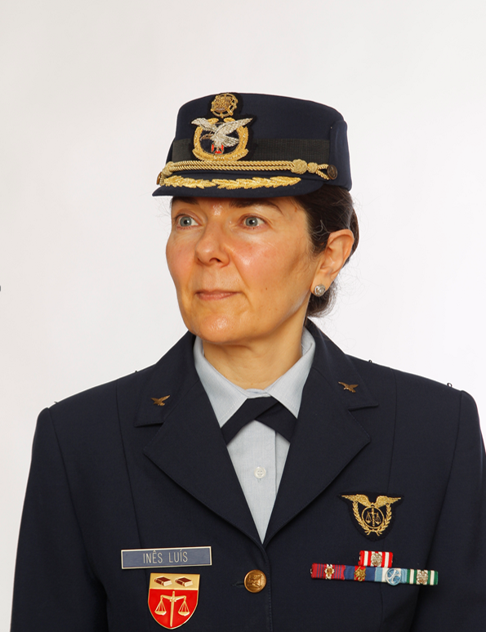
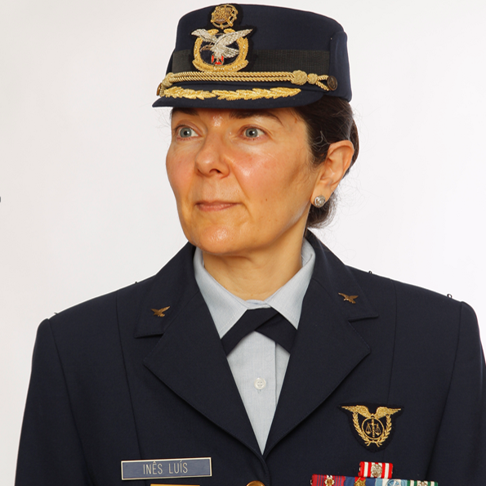
Alterar imagens para quadradas

diff --git a/eventos/seminario-assessoria-juridica-no-exercito-2025/index.html b/eventos/seminario-assessoria-juridica-no-exercito-2025/index.html
@@ -177,7 +177,7 @@
               href="index.html#testimonials4-41">MODERADORES</a></li>
           <!-- <li class="nav-item"><a class="nav-link link text-secondary display-4"
             href="index.html#content4-R">CONCLUSÕES</a></li> -->
-        <li class="nav-item">
+          <li class="nav-item">
             <a class="nav-link link text-secondary display-4" href="index.html#contacts3-2z">
               CONTACTOS</a>
           </li>
@@ -204,7 +204,8 @@
       <div class="media-container-row">
         <div class="title col-12 col-md-8">
           <h2 class="align-center pb-3 mbr-fonts-style display-2" style="color:  #167e50">APRESENTAÇÃO</h2>
-          <h3 class="mbr-section-subtitle align-center mbr-light mbr-fonts-style display-5">A Assessoria Jurídica no Exército Português- Relevância e Desafios</h3>
+          <h3 class="mbr-section-subtitle align-center mbr-light mbr-fonts-style display-5">A Assessoria Jurídica no
+            Exército Português- Relevância e Desafios</h3>
           <br>
         </div>
       </div>
@@ -214,22 +215,26 @@
       <div class="media-container-row">
         <div class="mbr-text col-12 mbr-fonts-style display-4 col-md-8">
           <p>O Comando do Pessoal do Exército organiza, no dia 11 de março de 2025, no Quartel de Santo Ovídio, Porto, o
-          Seminário “A Assessoria Jurídica no Exército Português: Relevância e Desafios”. Este evento constitui uma
-          oportunidade única para o debate sobre os desafios e oportunidades do Direito Militar, reunindo especialistas
-          nacionais e internacionais num espaço de excelência para a troca de experiências e a construção de soluções
+            Seminário “A Assessoria Jurídica no Exército Português: Relevância e Desafios”. Este evento constitui uma
+            oportunidade única para o debate sobre os desafios e oportunidades do Direito Militar, reunindo
+            especialistas
+            nacionais e internacionais num espaço de excelência para a troca de experiências e a construção de soluções
           </p>
-          <p>Com a participação de representantes de outros países, como Espanha e Inglaterra, bem como de outros ramos das
-          Forças Armadas, este Seminário permitirá a identificação e partilha de boas práticas com potencial para serem
-          adaptadas à realidade do Exército Português. O evento destina-se a militares e civis que atuam diretamente no
-          âmbito da assessoria jurídica, promovendo um fórum de discussão de elevado nível técnico e institucional.
+          <p>Com a participação de representantes de outros países, como Espanha e Inglaterra, bem como de outros ramos
+            das
+            Forças Armadas, este Seminário permitirá a identificação e partilha de boas práticas com potencial para
+            serem
+            adaptadas à realidade do Exército Português. O evento destina-se a militares e civis que atuam diretamente
+            no
+            âmbito da assessoria jurídica, promovendo um fórum de discussão de elevado nível técnico e institucional.
           </p>
           <p>Num contexto operacional cada vez mais exigente, destaca-se a crescente relevância do Legal Advisor em
-          Operações Militares, papel essencial para a condução eficaz e legalmente sustentada das missões. Neste
-          sentido, o Seminário visa contribuir para o fortalecimento da assessoria jurídica no Exército, potenciando
-          sinergias e promovendo uma visão integrada dos desafios que se colocam à assessoria jurídica em ambiente
-          militar.
+            Operações Militares, papel essencial para a condução eficaz e legalmente sustentada das missões. Neste
+            sentido, o Seminário visa contribuir para o fortalecimento da assessoria jurídica no Exército, potenciando
+            sinergias e promovendo uma visão integrada dos desafios que se colocam à assessoria jurídica em ambiente
+            militar.
           </p>
-         <br>
+          <br>
         </div>
       </div>
     </div>
@@ -278,11 +283,11 @@
                 <p class="my-0 flex-fw text-xs text-dark op-8 fundo-e-sombra-verde">Moderado pelo Coronel Tirocinado
                   António Coelho dos Santos, Subdiretor da Direção de Aquisições</p>
                 <p class="my-0 flex-fw text-xs text-dark op-8 fundo-e-sombra-verde"><strong>10:10</strong> Perspetiva
-                  Espanhola (TBA) : Comandante Auditor CJM D. Daniel Rey Moral, Ejercito de Tierra </p>
+                  Espanhola (TBA) - Comandante Auditor CJM D. Daniel Rey Moral, Ejercito de Tierra </p>
                 <p class="my-0 flex-fw text-xs text-dark op-8 fundo-e-sombra-verde"><strong>10:30</strong> Perspetiva
-                  Inglesa (TBA) : Major-General Richard Allen, Director of British Army Legal Services </p>
+                  Inglesa (TBA) - Major-General Richard Allen, Director of British Army Legal Services </p>
                 <p class="my-0 flex-fw text-xs text-dark op-8 fundo-e-sombra-verde"><strong>10:45</strong> Perspetiva
-                  Inglesa (TBA) : Major-General Richard Allen, Director of British Army Legal Services </p>
+                  Inglesa (TBA) - Major-General Richard Allen, Director of British Army Legal Services </p>
               </li>
               <li class="list-timeline-item p-0 pb-3 pb-lg-4 d-flex flex-wrap flex-column">
                 <p class="my-0 text-dark flex-fw text-sm">
@@ -299,10 +304,10 @@
                 <p class="my-0 flex-fw text-xs text-dark op-8 fundo-e-sombra-verde"><strong>11:30</strong> A Assessoria
                   Jurídica no Exército - Dr.ª Carla Sousa, do Departamento Jurídico e de Contencioso do GabCEME </p>
                 <p class="my-0 flex-fw text-xs text-dark op-8 fundo-e-sombra-verde"><strong>11:50</strong> O modelo de
-                  Assessoria Jurídica na Marinha : Capitão de Mar e Guerra Luís Nicholson Lavrador, Departamento
+                  Assessoria Jurídica na Marinha - Capitão de Mar e Guerra Luís Nicholson Lavrador, Departamento
                   Jurídico da Marinha. </p>
                 <p class="my-0 flex-fw text-xs text-dark op-8 fundo-e-sombra-verde"><strong>12:10</strong> – O modelo de
-                  Assessoria Jurídica na Força Aérea Portuguesa : Tenente-Coronel Jurista, Inês Sousa Luís, Departamento
+                  Assessoria Jurídica na Força Aérea Portuguesa - Tenente-Coronel Jurista, Inês Sousa Luís, Departamento
                   Jurídico da Força Aérea </p>
                 <p class="my-0 flex-fw text-xs text-dark op-8 fundo-e-sombra-verde"><strong>12:30</strong> – Período de
                   Debate </p>
@@ -324,12 +329,12 @@
                   Divisão de Recursos do Estado-Maior do Exército.</em></p>
                 <p class="my-0 flex-fw text-xs text-dark op-8 fundo-e-sombra-verde"><strong>14:30</strong>A estrutura de
                   pessoal jurista do Exército: Evolução e Oportunidades – Dr.º Gabriel Barbosa Campos, Chefe da
-                  Assessoria Jurídica do Gabinete do Comandante de Pessoa</em></p>
+                  Assessoria Jurídica do Gabinete do Comandante de Pessoa.</em></p>
                 <p class="my-0 flex-fw text-xs text-dark op-8 fundo-e-sombra-verde"><strong>14:35</strong> A Formação do
                   Quadro Especial de Juristas – Coronel Élio Teixeira dos Santos, Diretor de Ensino da Academia
-                  Militar</em></p>
+                  Militar.</em></p>
                 <p class="my-0 flex-fw text-xs text-dark op-8 fundo-e-sombra-verde"><strong>15:10</strong> As funções do
-                  Jurista – Dr.ª Sílvia Filipe Nogueira Corais, Jurista da Direção de Serviços de Pessoa</em></p>
+                  Jurista – Dr.ª Sílvia Filipe Nogueira Corais - Jurista da Direção de Serviços de Pessoa</em></p>
                 <p class="my-0 flex-fw text-xs text-dark op-8 fundo-e-sombra-verde"><strong>15:30</strong> Período de
                   Debate</em></p>
               </li>
@@ -372,18 +377,20 @@
         </div>
       </div> 
 -->
-
-<div class="row align-center mt-5">
-  <div class="col-12" align-center>
+      <br>
+  <div style="text-align: center;">
     <a href="https://qr.sli.do/jAnPRt2T7m271N7kHwvNsY" target="_blank">
       <img src="assets/images/02a-logo-exercito-cor2-png-174x121.png" width="150">
       <br>
-      <a class="btn btn-md btn-primary" target="_blank" href="https://app.sli.do/event/jAnPRt2T7m271N7kHwvNsY" role="button">Interação com Moderadores</a>
-  </a>
+      <a class="btn btn-md btn-primary" target="_blank" href="https://app.sli.do/event/jAnPRt2T7m271N7kHwvNsY"
+        role="button" style="font-family: Arial, sans-serif;">
+        Interação com Moderadores
+      </a>
   </div>
-</div>
+
   </div>
   </div>
+  <br>
 
 
 
@@ -439,7 +446,7 @@
             <div class="testimonials-caption col-lg-9 col-md-8">
               <div class="user_text">
                 <p class="mbr-fonts-style display-7">
-                  <br><strong>Comandante Auditor CJM D. Daniel Rey Moral,</strong>
+                  <br><strong>Comandante Auditor CJM D. Daniel Rey Moral</strong>
                   <br>Ejercito de Tierra
                   <br><br>
                   O Comandante Daniel Rey Moral ingressou no Corpo Jurídico Militar em 2010, consolidando uma carreira
@@ -478,7 +485,7 @@
             <div class="testimonials-caption col-lg-9 col-md-8">
               <div class="user_text">
                 <p class="mbr-fonts-style display-7">
-                  <br><strong>Major-General Richard Allen,</strong>
+                  <br><strong>Major-General Richard Allen</strong>
                   <br>Director of British Army Legal Services
                   <br><br>
                   O Major-General Richard Allen estudou Direito na Universidade de Birmingham e concluiu os exames
@@ -555,7 +562,7 @@
             </div>
             <div class="testimonials-caption col-lg-9 col-md-8">
               <div class="user_text">
-                <p class="mbr-fonts-style display-7"><br><strong>Capitão de Mar e Guerra Luís Nicholson Lavrador,
+                <p class="mbr-fonts-style display-7"><br><strong>Capitão de Mar e Guerra Luís Nicholson Lavrador
                   </strong>
                   <br>Departamento Jurídico da Marinha
                   <br><br>O Capitão de Mar e Guerra Luis Nicholson Lavrador nasceu em Lisboa em 1968 e ingressou na
@@ -641,7 +648,7 @@
             <div class="testimonials-caption col-lg-9 col-md-8">
               <div class="user_text">
                 <p class="mbr-fonts-style display-7">
-                  <br><strong>Coronel Tirocinado Jorge Paulo Martins Henriques, </strong>
+                  <br><strong>Coronel Tirocinado Jorge Paulo Martins Henriques </strong>
                   <br>Chefe da Divisão de Recursos do Estado-Maior do Exército.
                   <br><br>
                   O Coronel Tirocinado Jorge Paulo Martins Henriques nasceu em Lisboa, tem 55 anos de idade e ingressou
@@ -710,7 +717,7 @@
             <div class="testimonials-caption col-lg-9 col-md-8">
               <div class="user_text">
                 <p class="mbr-fonts-style display-7">
-                  <br><strong>Coronel Élio Teixeira dos Santos, </strong>
+                  <br><strong>Coronel Élio Teixeira dos Santos </strong>
                   <br>Diretor de Ensino da Academia Militar.
                   <br><br>O Coronel Élio Santos terminou a Academia Militar em 1992, tendo sido colocado no Centro de
                   Instrução de Artilharia Antiaérea de Cascais, onde desempenhou as funções de Comandante de Pelotão e
@@ -905,77 +912,79 @@
   </section>
 
   <section class="mbr-section contacts3 cid-sPcMrNzpg3" id="contacts3-2z">
-    <!---->
-    <!---->
-    <!--Overlay-->
-    <!--Container-->
     <div class="container">
       <div class="row">
-        <!--Titles-->
+        <!--Título principal-->
         <div class="title col-12">
           <h2 class="align-left mbr-fonts-style display-2">Contactos</h2>
         </div>
-        <div class="col-12">
-          <div class="row">
-            <div class="col-12 col-md-6">
-              <div class="wrapper">
-                <span class="iconfont-wrapper">
-                  <span class="amp-iconfont icon fa-thumbs-o-up fa mbrib-home"
-                    style="color: rgb(22, 126, 80); fill: rgb(22, 126, 80);"></span>
-                </span>
-                <div class="b-info b-adress">
-                  <h5 class="align-left mbr-fonts-style display-5">Morada:
-                  </h5>
-                  <p class="mbr-text align-left mbr-fonts-style display-7">
-                    Quartel de Santo Ovídio
-                    <br>
-                    Praça da República
-                    <br>
-                    4099-037 Porto
-                  </p>
+  
+        <!-- Duas colunas -->
+        <div class="col-12 d-flex flex-wrap">
+          <!-- Coluna esquerda (Contactos) -->
+          <div class="col-12 col-md-6">
+            <div class="row">
+              <div class="col-12">
+                <div class="wrapper">
+                  <span class="iconfont-wrapper">
+                    <span class="amp-iconfont icon fa-thumbs-o-up fa mbrib-home"
+                      style="color: rgb(22, 126, 80); fill: rgb(22, 126, 80);"></span>
+                  </span>
+                  <div class="b-info b-adress">
+                    <h5 class="align-left mbr-fonts-style display-5">📍 Morada:</h5>
+                    <p class="mbr-text align-left mbr-fonts-style display-7">
+                      Quartel de Santo Ovídio
+                      <br>Praça da República
+                      <br>4099-037 Porto
+                    </p>
+                  </div>
+                </div>
+              </div>
+              <div class="col-12">
+                <div class="wrapper">
+                  <span class="iconfont-wrapper">
+                    <span class="amp-iconfont icon fa-phone fa mbrib-mobile2"
+                      style="color: rgb(22, 126, 80); fill: rgb(22, 126, 80);"></span>
+                  </span>
+                  <div class="b-info b-phone">
+                    <h5 class="align-left mbr-fonts-style display-5">📞 Telefone:</h5>
+                    <p class="mbr-text align-left mbr-fonts-style display-7">
+                      222 077 302<br>431 014
+                    </p>
+                  </div>
+                </div>
+              </div>
+              <div class="col-12">
+                <div class="wrapper">
+                  <span class="iconfont-wrapper">
+                    <span class="amp-iconfont icon fa-comment-o fa mbrib-letter"
+                      style="color: rgb(22, 126, 80); fill: rgb(22, 126, 80);"></span>
+                  </span>
+                  <div class="b-info b-mail">
+                    <h5 class="align-left mbr-fonts-style display-5">✉  E-mail:</h5>
+                    <p class="mbr-text align-left mbr-fonts-style display-7">
+                      cmdpess.gabinete@exercito.pt
+                    </p>
+                  </div>
                 </div>
               </div>
             </div>
-            <div class="col-12 col-md-6">
-              <div class="wrapper">
-                <span class="iconfont-wrapper">
-                  <span class="amp-iconfont icon fa-phone fa mbrib-mobile2"
-                    style="color: rgb(22, 126, 80); fill: rgb(22, 126, 80);"></span>
-                </span>
-                <div class="b-info b-phone">
-                  <h5 class="align-left mbr-fonts-style display-5">
-                    Telefone:
-                  </h5>
-                  <p class="mbr-text align-left mbr-fonts-style display-7">
-                    222 077 302
-                    <br>
-                    431 014
-                  </p>
-                </div>
-              </div>
+          </div>
+  
+          <!-- Coluna direita (Mapa) -->
+          <div class="col-12 col-md-6 d-flex flex-column">
+            <!-- Título do Mapa -->
+            <h2 class="align-left mbr-fonts-style display-2">🗺 Onde Estamos</h2>
+            <div class="map-responsive w-100">
+              <iframe src="https://www.google.com/maps/embed?pb=!1m18!1m12!1m3!1d3727.6686647761167!2d-8.615167123442541!3d41.15549191034631!2m3!1f0!2f0!3f0!3m2!1i1024!2i768!4f13.1!3m3!1m2!1s0xd246595f5641609%3A0xbe627663d5cb32b0!2sComando%20do%20Pessoal%20do%20Ex%C3%A9rcito!5e1!3m2!1spt-PT!2spt!4v1741263643031!5m2!1spt-PT!2spt" width="400" height="300" style="border:0;" allowfullscreen="" loading="lazy" referrerpolicy="no-referrer-when-downgrade"></iframe>
             </div>
-            <div class="col-12 col-md-6">
-              <div class="wrapper">
-                <span class="iconfont-wrapper">
-                  <span class="amp-iconfont icon fa-comment-o fa mbrib-letter"
-                    style="color: rgb(22, 126, 80); fill: rgb(22, 126, 80);"></span>
-                </span>
-                <div class="b-info b-mail">
-                  <h5 class="align-left mbr-fonts-style display-5">
-                    E-mail:
-                  </h5>
-                  <p class="mbr-text align-left mbr-fonts-style display-7">
-                    cmdpess.gabinete@exercito.pt
-                  </p>
-                </div>
-              </div>
-            </div>
-
           </div>
         </div>
       </div>
     </div>
   </section>
+  
+  
 
   <section once="footers" class="cid-sMzUwaETcR" id="footer6-2f">
     <div class="container">
